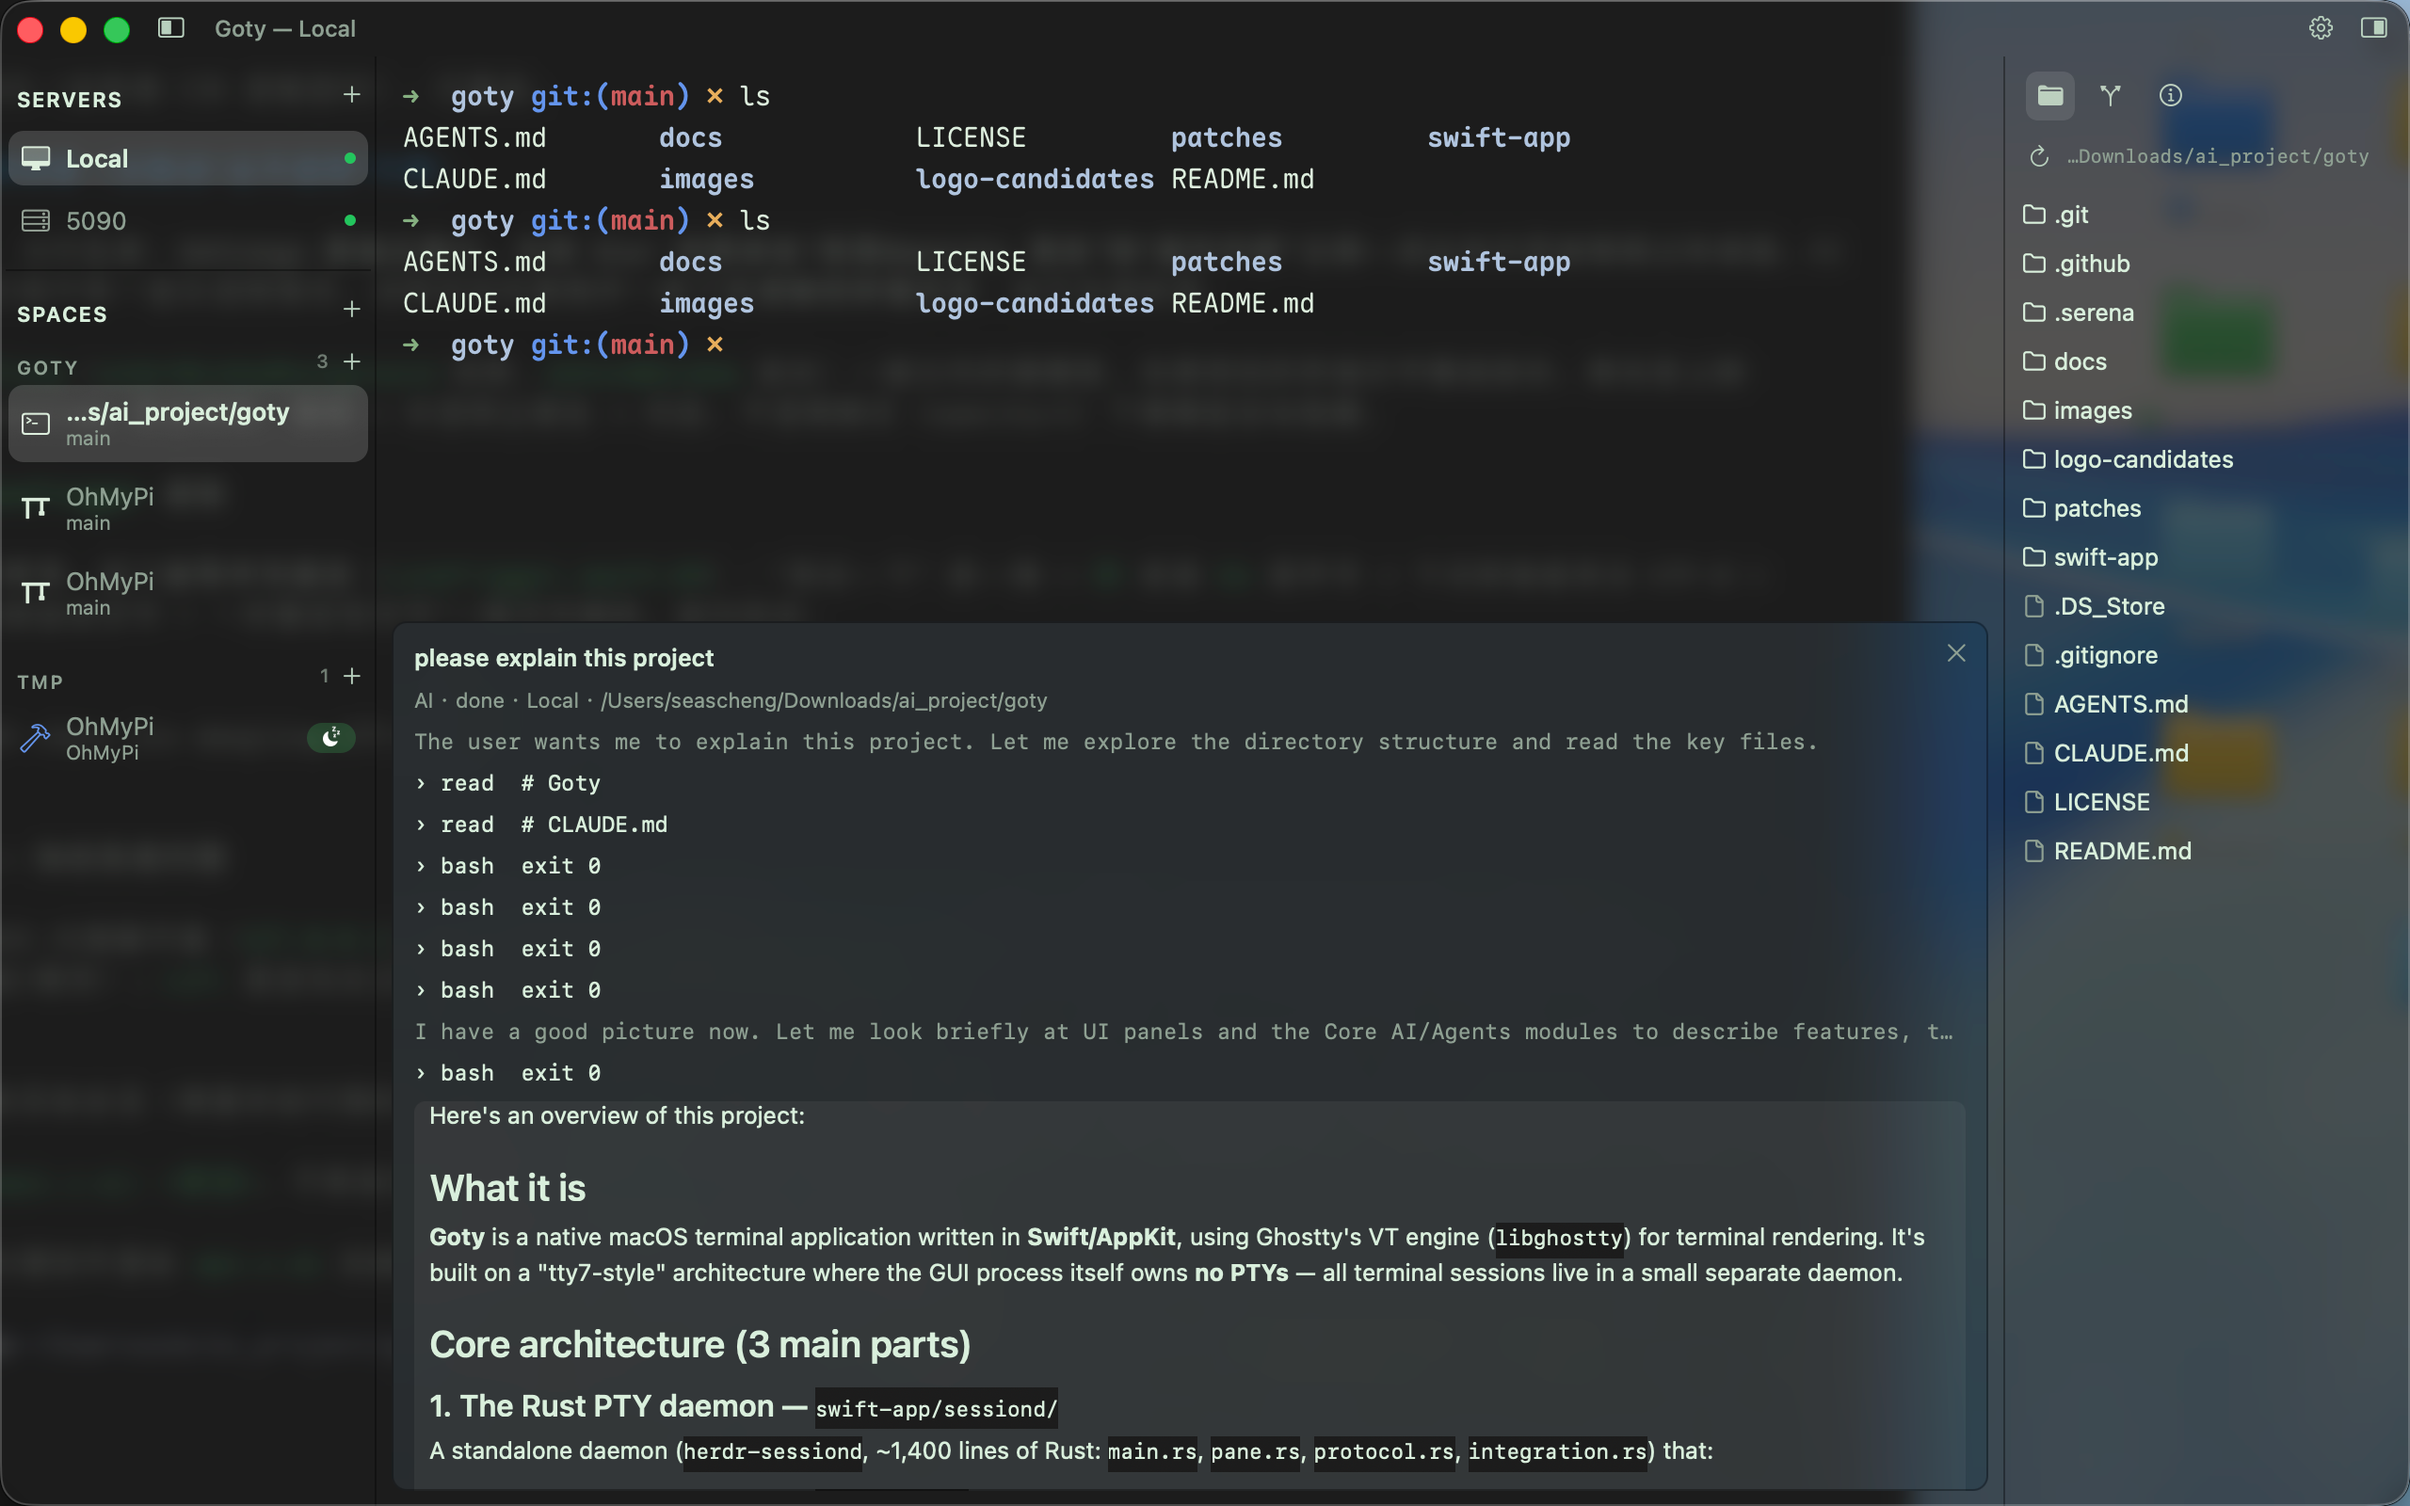
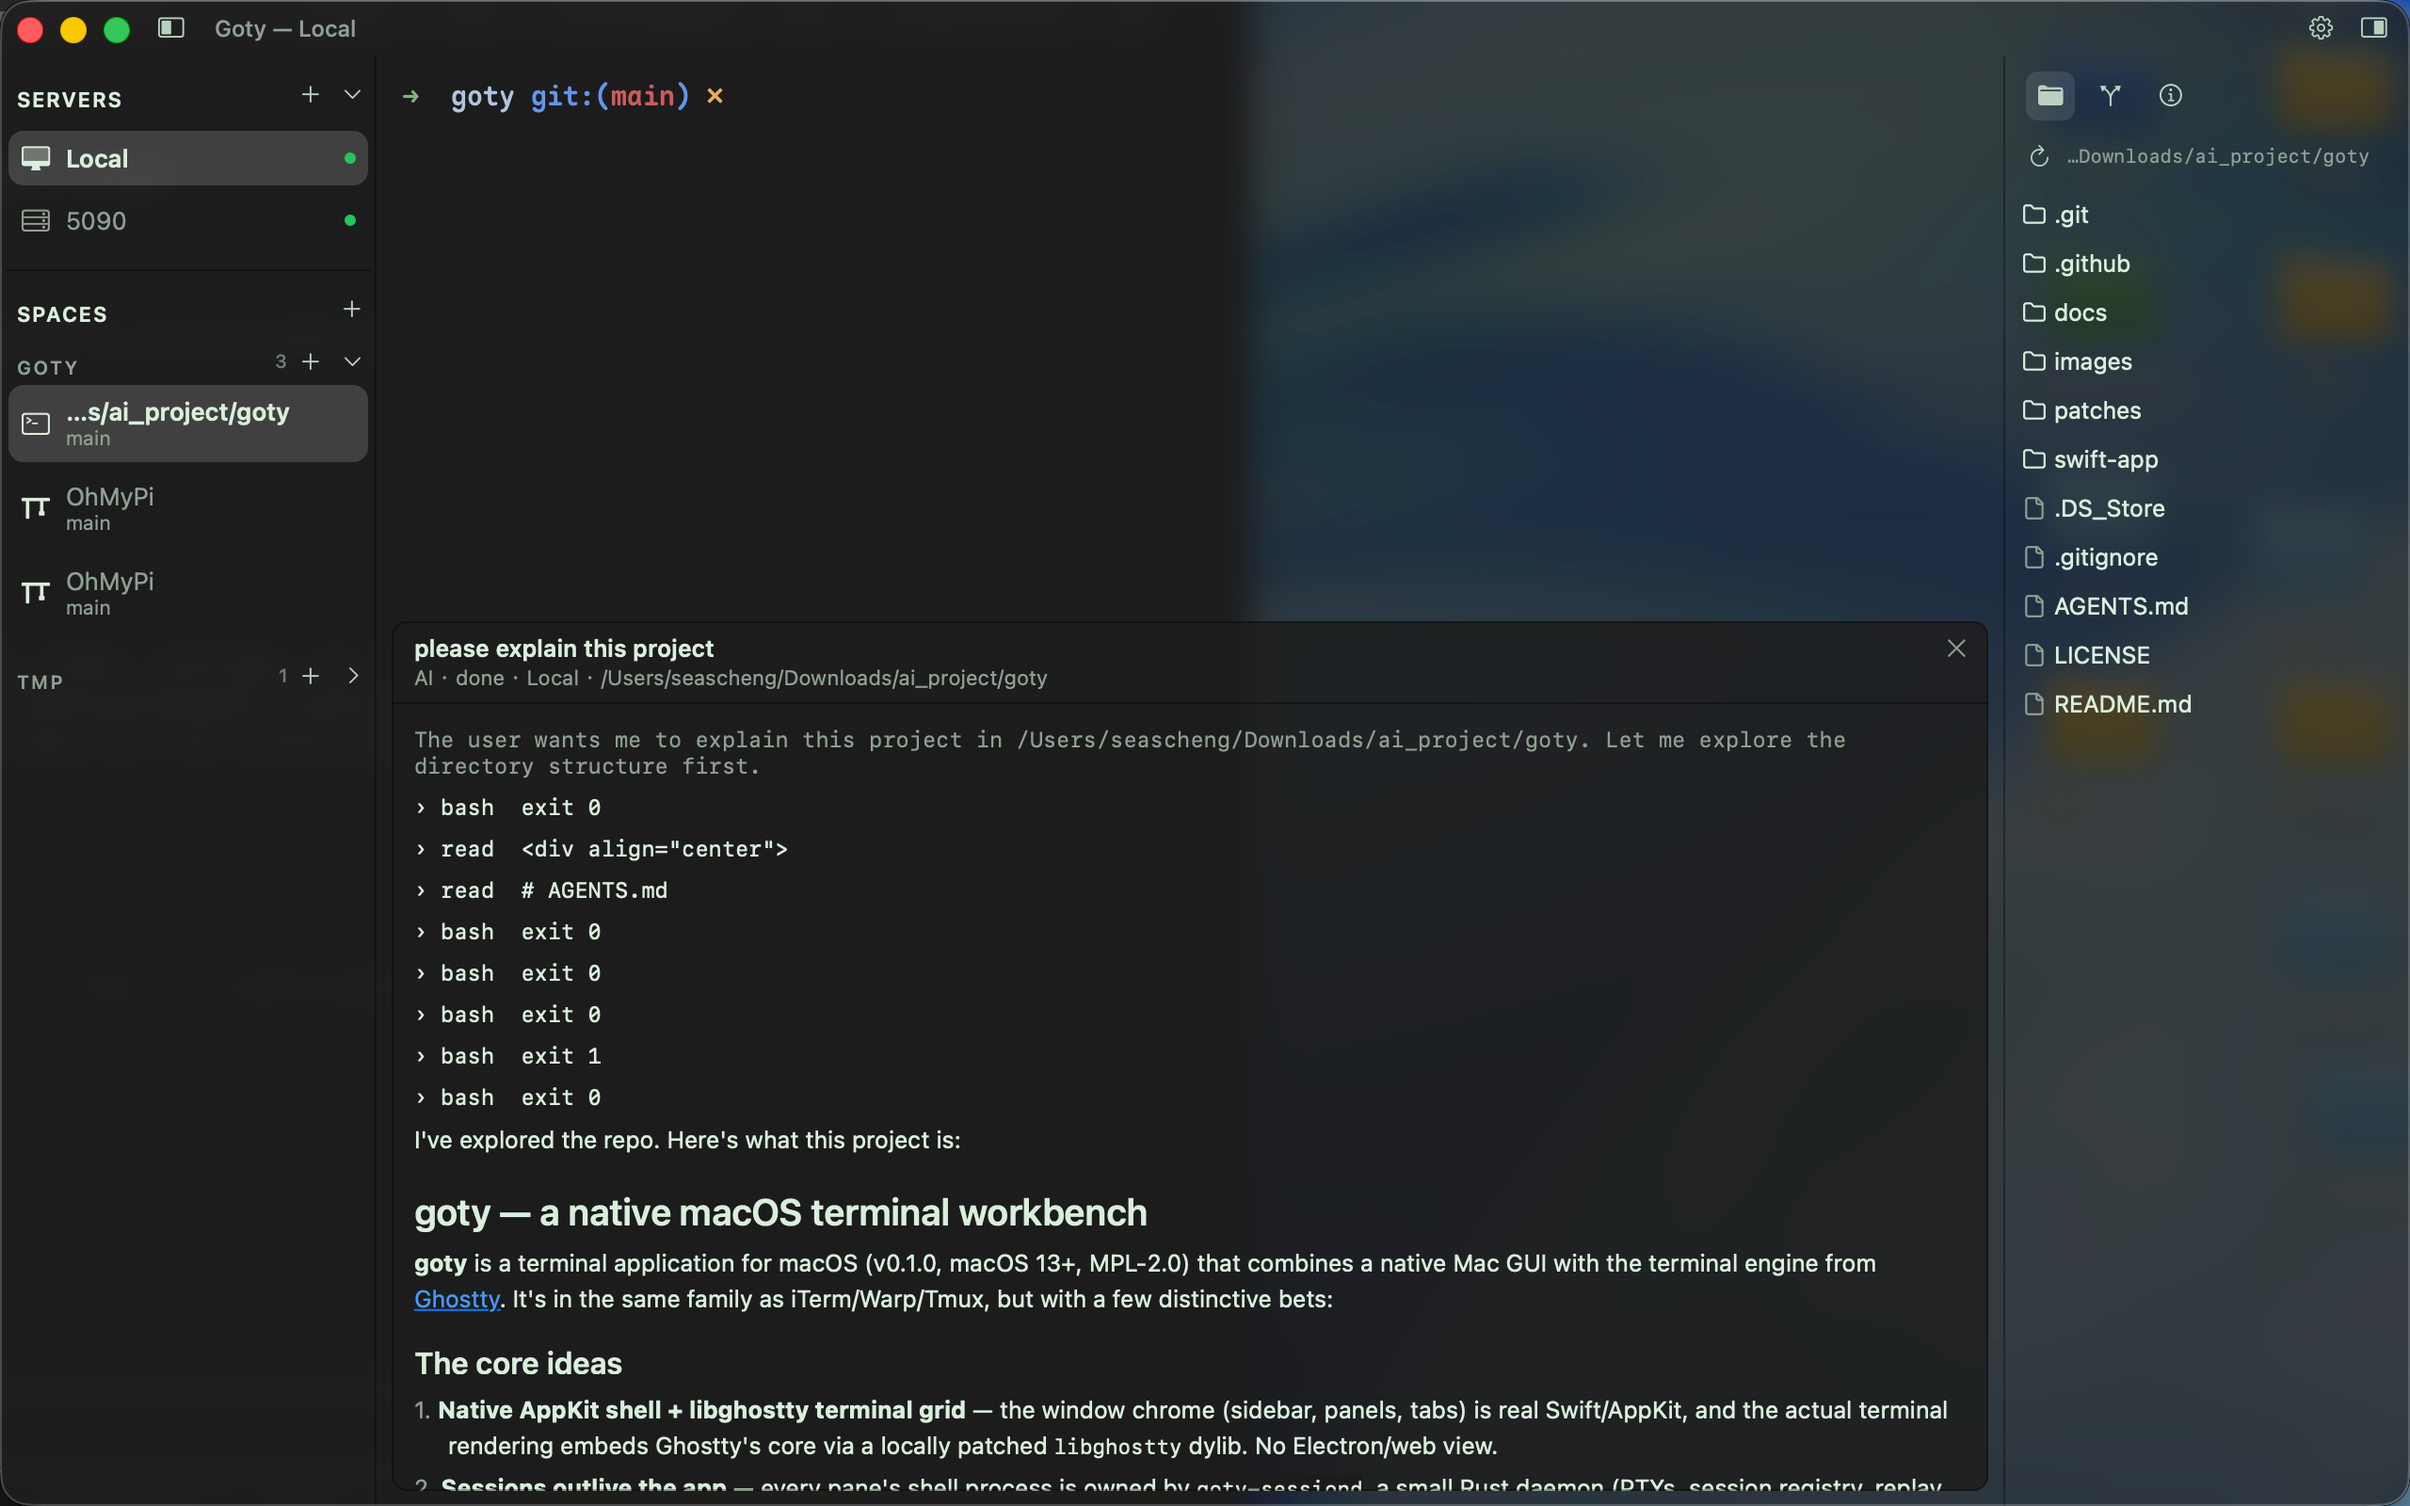
fix(ai-card): flipped scroll document, stick-to-bottom, text width cap

diff --git a/swift-app/Sources/UI/Terminal/AITaskCard.swift b/swift-app/Sources/UI/Terminal/AITaskCard.swift
@@ -8,6 +8,15 @@ import AppKit
 /// buffer. The card never becomes firstResponder outside its input and
 /// edit modes, so arrow keys keep reaching the terminal.
 
+/// The card's document MUST be flipped: NSClipView is flipped, and a
+/// non-flipped document inverts every scroll coordinate — the clip's
+/// bottom-pin math lands at the visual TOP and wheel scrolling reads
+/// reversed (the "scroll direction is backwards" report; verified with
+/// /tmp/scrollprobe: flipped doc + clip.scroll survives layout, doc
+/// frame stays pinned at the origin).
+private final class FlippedStack: NSStackView {
+    override var isFlipped: Bool { true }
+}
 
 final class AITaskCard: NSView {
     var onConfirm: (() -> Void)?
@@ -18,7 +27,7 @@ final class AITaskCard: NSView {
     /// Input mode (⌘⇧A): Enter submits the typed request.
     var onSubmit: ((String) -> Void)?
 
-    private let stack = NSStackView()
+    private let stack = FlippedStack()
     /// The ask that started the running task — shown as the card's
     /// title line (the user's own words, not a phase label).
     private var taskQuestion: String?
@@ -129,6 +138,13 @@ final class AITaskCard: NSView {
         scrollView.hasVerticalScroller = true
         scrollView.autohidesScrollers = true
         scrollView.translatesAutoresizingMaskIntoConstraints = false
+        scrollView.onUserScroll = { [weak self] in
+            // Post-wheel position decides the pin: at/near the bottom
+            // = keep following; anywhere above = the user is reading.
+            guard let self else { return }
+            let clip = self.scrollView.contentView
+            self.pinnedToBottom = clip.bounds.maxY >= self.stack.bounds.height - 4
+        }
         scrollView.documentView = stack
         addSubview(scrollView)
         NSLayoutConstraint.activate([
@@ -155,15 +171,25 @@ final class AITaskCard: NSView {
     }
 
     private var bodyHeight: NSLayoutConstraint?
-    /// The card's body scroller — the clip view owns scrolling (the
-    /// document view's bounds origin is the clip's to manage).
-    private let scrollView = NSScrollView()
+    /// Scroll view that reports USER wheel scrolling — the stick-to-
+    /// bottom pin must never fight a reader who scrolled up.
+    private final class CardScrollView: NSScrollView {
+        var onUserScroll: (() -> Void)?
+        override func scrollWheel(with event: NSEvent) {
+            super.scrollWheel(with: event)
+            onUserScroll?()
+        }
+    }
+    private let scrollView = CardScrollView()
+    /// True while the body should follow new content (user at/near the
+    /// bottom). Flips off the moment the user wheels away; back on when
+    /// they wheel to the bottom again.
+    private var pinnedToBottom = true
     /// Fixed title-bar fields (question + meta) — pinned above the
     /// scrolling body, set by Group.header on every render.
     private let titleField = NSTextField(labelWithString: "")
     private let metaField = NSTextField(labelWithString: "")
     private let closeButton = IconButton()
-
     override func layout() {
         super.layout()
         bodyHeight?.isActive = false
@@ -172,13 +198,18 @@ final class AITaskCard: NSView {
         bodyHeight?.isActive = true
         if pendingScroll {
             pendingScroll = false
-            DispatchQueue.main.async { [stack] in
-                // Force the re-measured height to LAND first — reading
-                // bounds.height before the constraint pass completes
-                // scrolls to the PRE-growth height, which during
-                // streaming looked like the card jumping to its top.
-                stack.layoutSubtreeIfNeeded()
-                stack.scroll(NSPoint(x: 0, y: stack.bounds.height))
+            DispatchQueue.main.async { [weak self] in
+                guard let self else { return }
+                // Force the re-measured height to LAND first; then pin
+                // THROUGH THE CLIP VIEW. Scrolling the document view's
+                // own bounds desyncs from the clip view — it bounces
+                // back to the TOP on the next growth (the md-document
+                // jump-to-top report).
+                self.stack.layoutSubtreeIfNeeded()
+                guard self.pinnedToBottom else { return }   // reader wins
+                let clip = self.scrollView.contentView
+                clip.scroll(to: NSPoint(x: 0, y: self.stack.bounds.height - clip.bounds.height))
+                self.scrollView.reflectScrolledClipView(clip)
             }
         }
     }
@@ -438,15 +469,14 @@ final class AITaskCard: NSView {
         }
 
 
-        /// The model's own reasoning for one round: muted mono preview,
-        /// capped at 2 lines — it's context for the line under it.
+        /// The model's reasoning (streaming AND completed rounds): muted
+        /// mono that wraps and stays selectable — no line cap anywhere
+        /// (the think-text never-wraps reports).
         func thinkingBlock(_ text: String) {
-            let body = mono(text)
+            let body = monoSelectable(text)
             body.textColor = Chrome.theme.secondaryText
-            body.lineBreakMode = .byTruncatingTail
-            body.maximumNumberOfLines = 2
-            body.cell?.truncatesLastVisibleLine = true
         }
+
 
         func proposal(_ proposal: AIProposal, target: ExecutionTarget) {
             let explanation = proposal.explanation
@@ -632,9 +662,17 @@ final class AITaskCard: NSView {
         }
 
         /// One view directly into the stack (input field etc.).
-        func add(_ view: NSView) { stack.addView(view, in: .leading) }
+        func add(_ view: NSView) {
+            // Arranged content MUST drop the autoresizing mask — the
+            // width-cap constraints the builders add (≤ stack - 24) are
+            // silently ignored otherwise, and wrapping labels laid out
+            // at intrinsic width get clipped mid-line (the think-text
+            // ellipsis report).
+            view.translatesAutoresizingMaskIntoConstraints = false
+            stack.addView(view, in: .leading)
+        }
         func add(views: [NSView]) {
-            for view in views { stack.addView(view, in: .leading) }
+            for view in views { add(view) }
         }
     }
 }

diff --git a/swift-app/tools/layouttest.swift b/swift-app/tools/layouttest.swift
@@ -27,6 +27,12 @@ func run() {
             card.layoutSubtreeIfNeeded()
             check(card.isTextViewSelectableForTest, "AI markdown renders as a selectable inline field")
             if let field = card.selectableFieldForTest {
+                // The width cap must actually bind: without
+                // translatesAutoresizingMaskIntoConstraints=false the ≤ constraint is
+                // ignored and the label lays out at intrinsic width,
+                // clipping every line (the ellipsis report).
+                check(field.bounds.width <= card.bounds.width - 12,
+                      "inline text caps at card width (field \(Int(field.bounds.width)) vs card \(Int(card.bounds.width)))")
                 let p = card.convert(NSPoint(x: field.bounds.midX, y: field.bounds.midY), from: field)
                 let hit = card.hitTest(p)
                 let chain = hit.map { String(describing: type(of: $0)) } ?? "nil"
